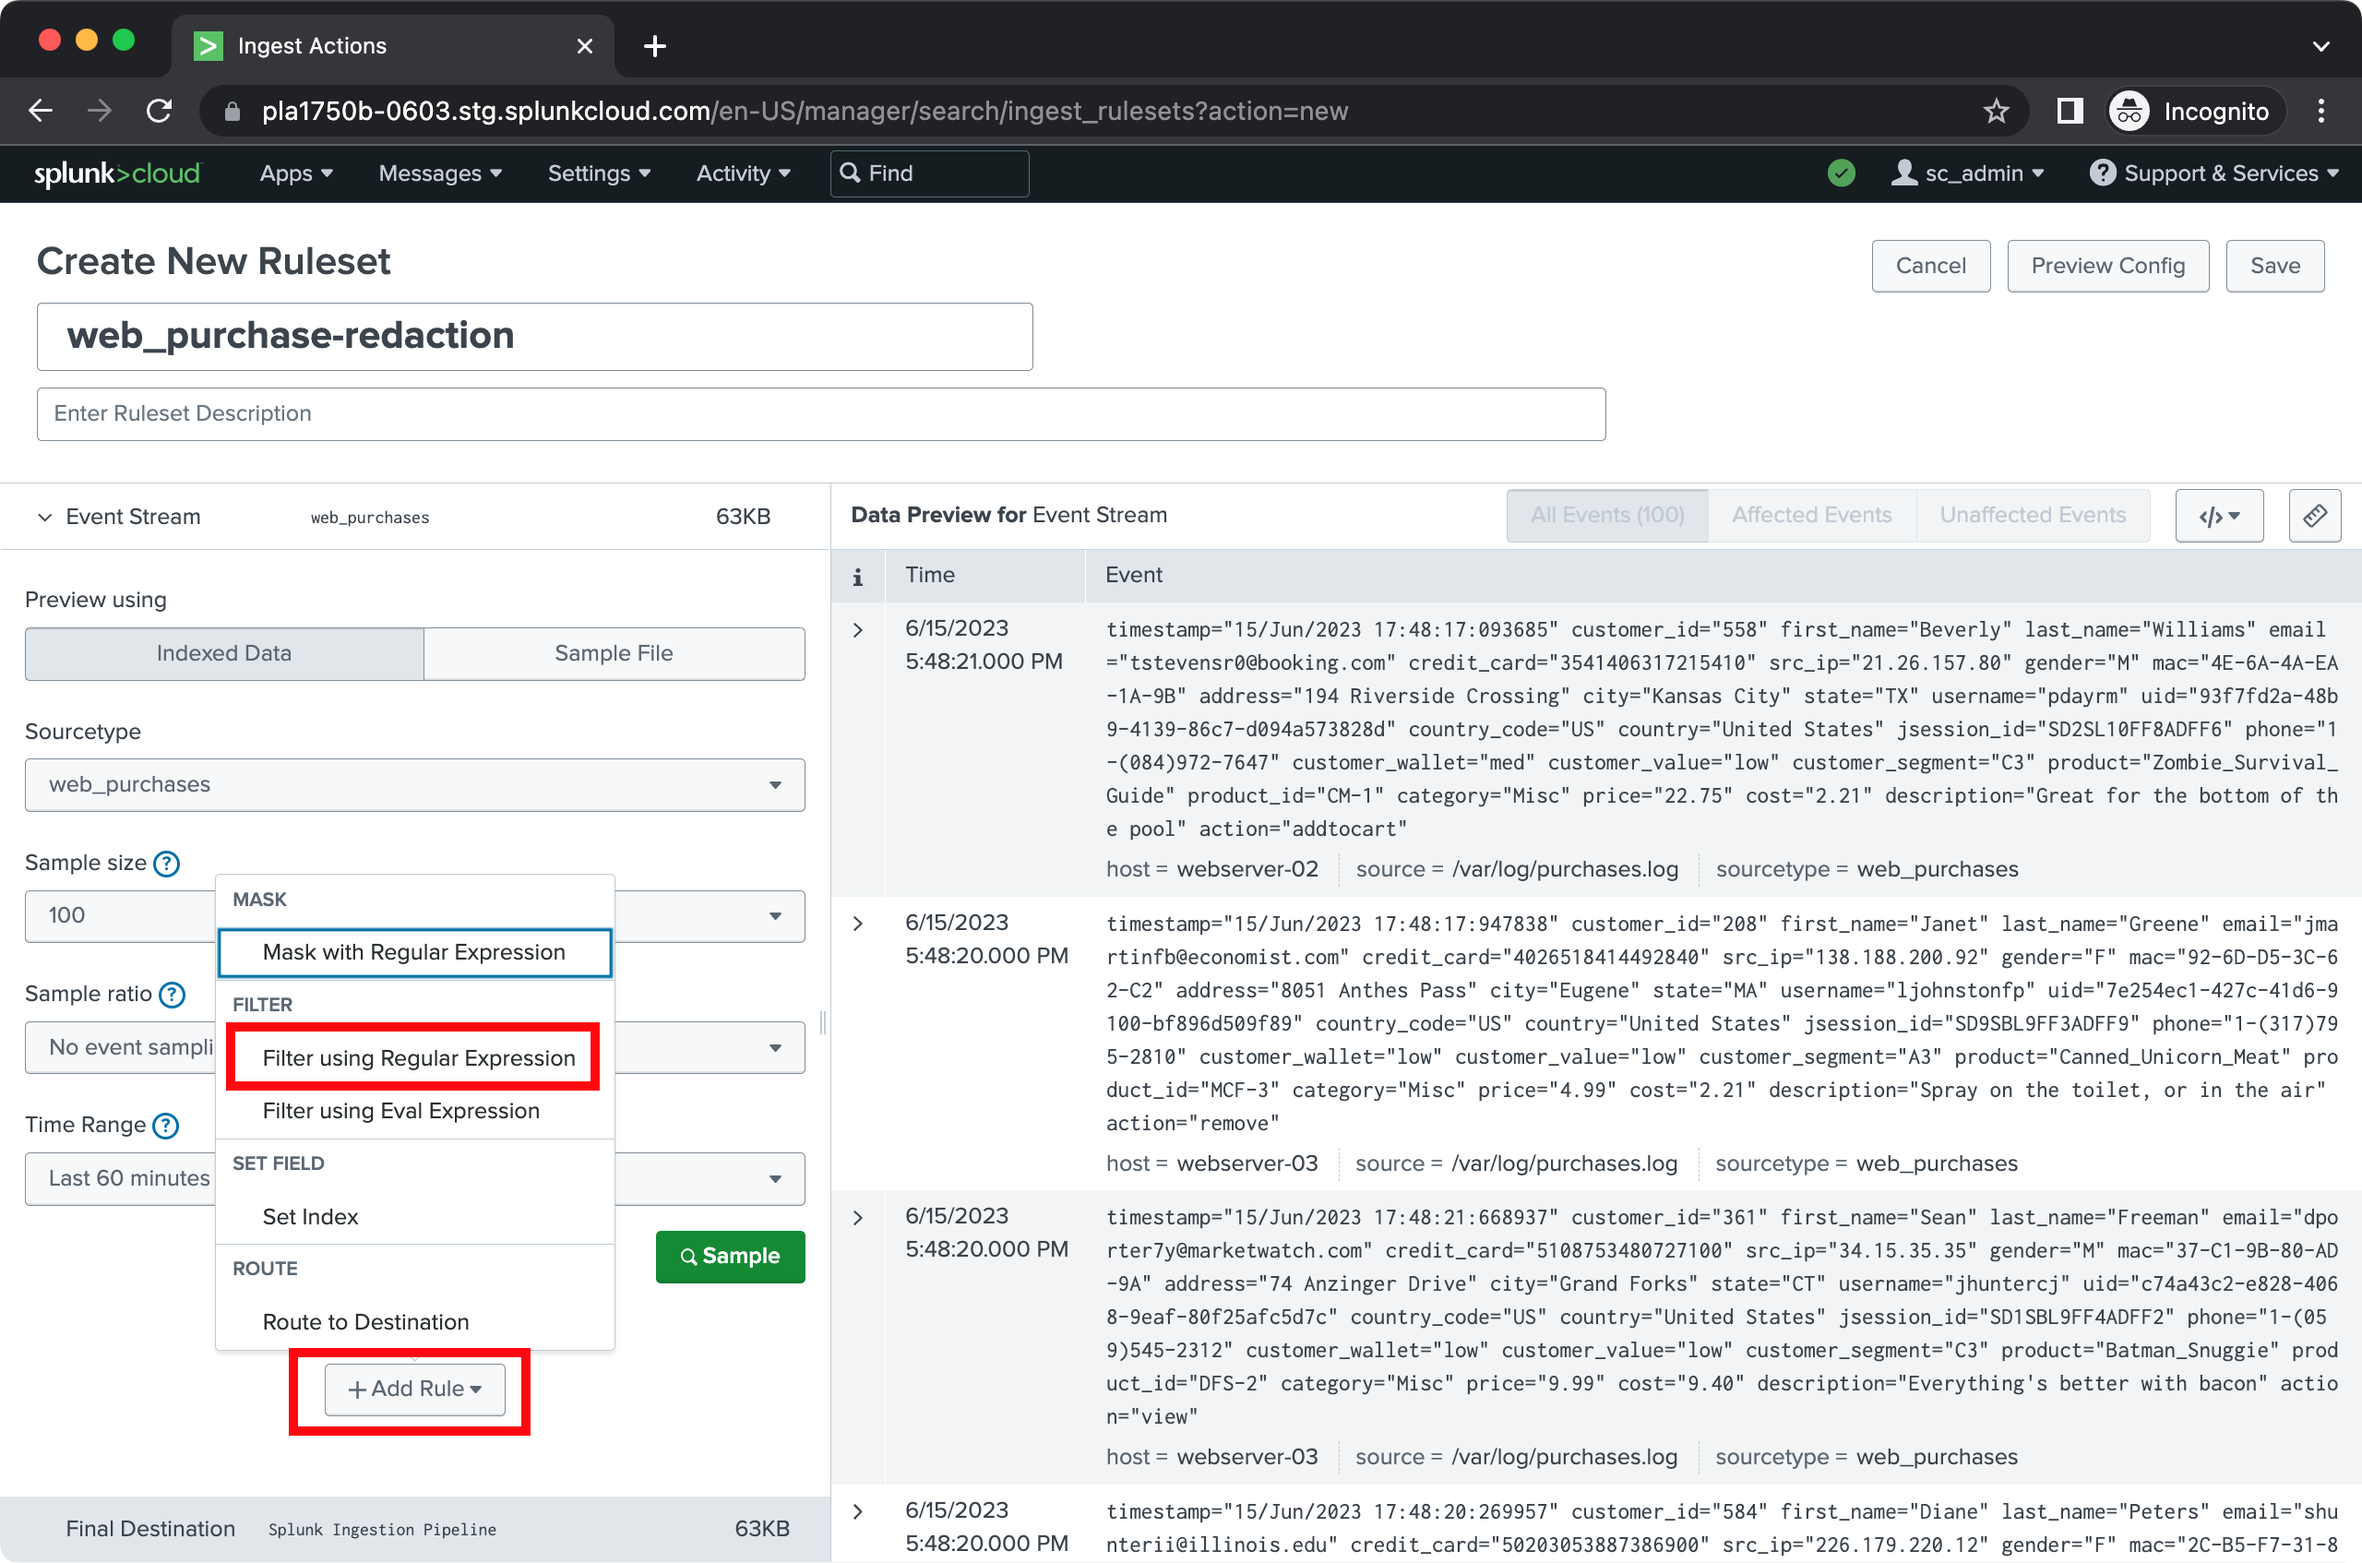
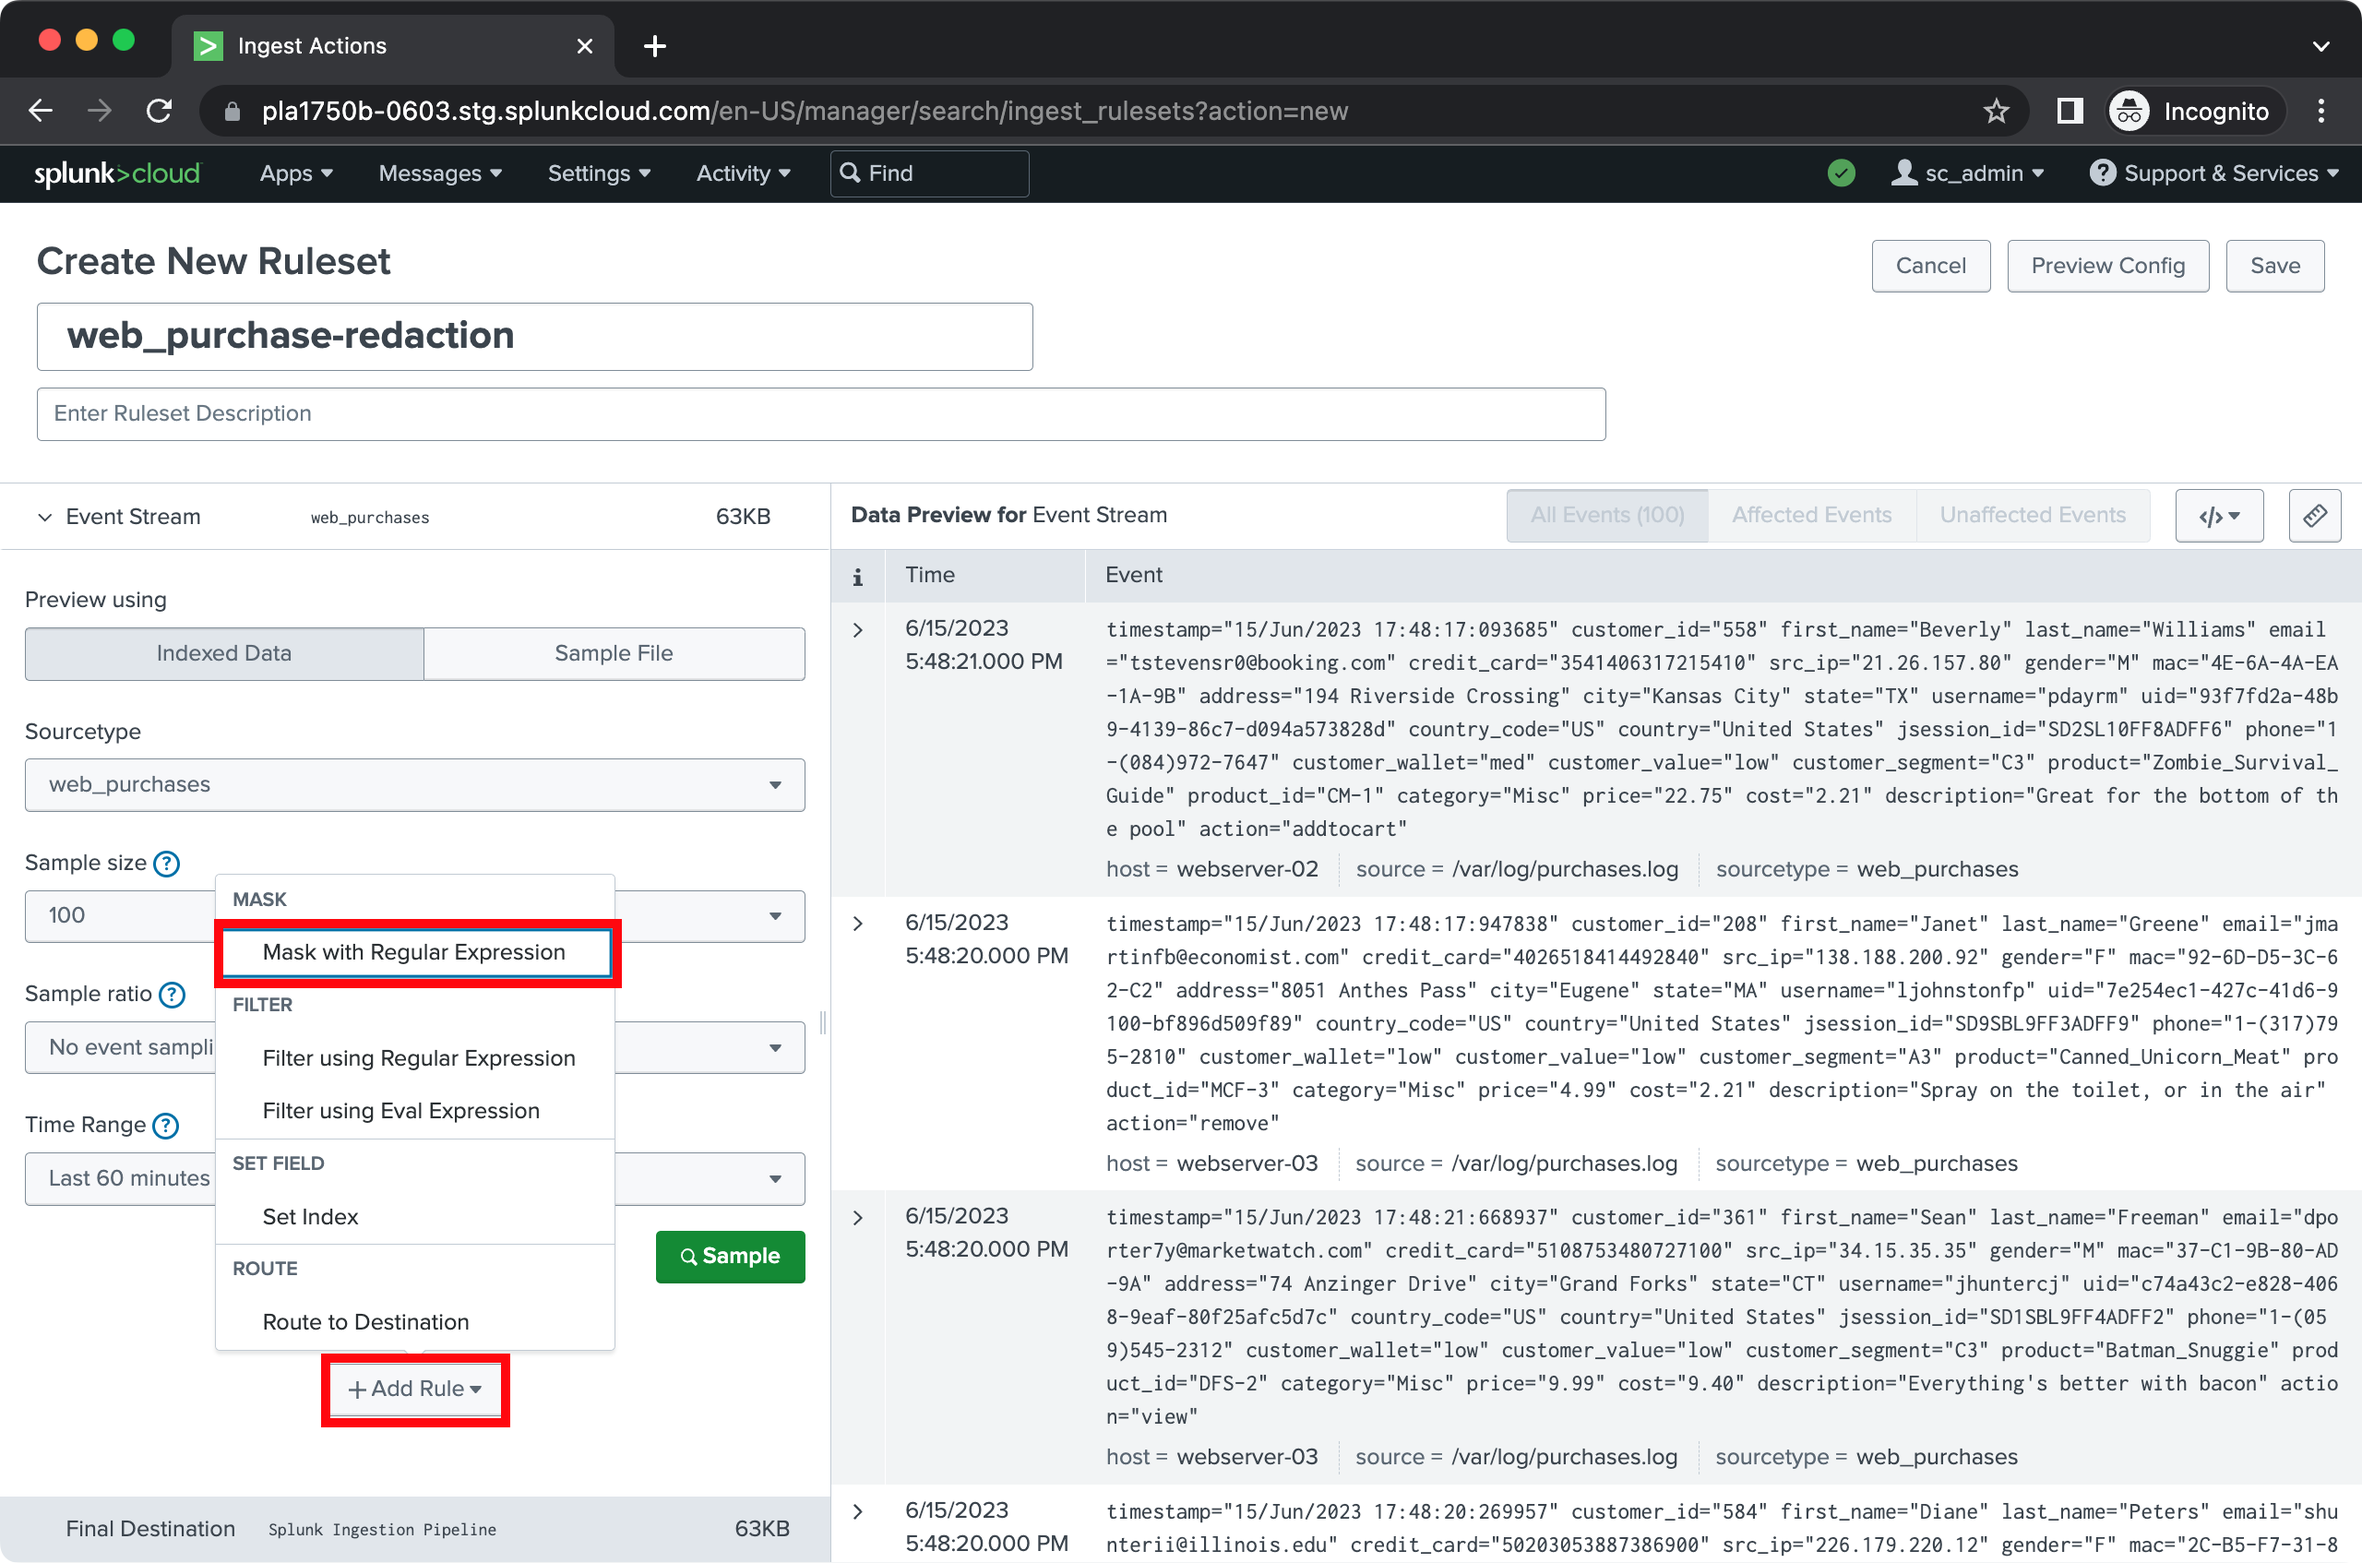
Incorporated feedback for module

Changed region(s): [[0.0938, 0.5832, 0.2812, 0.706], [0.125, 0.8595, 0.25, 0.9209]]

diff --git a/module_1/Module 1 Ingest Actions.md b/module_1/Module 1 Ingest Actions.md
@@ -46,15 +46,15 @@ index=firewall sourcetype=cisco:asa 106023 OR 302020 OR 302021 OR 313005 OR 1060
 
 7. Configure this rule by leaving the **Source Field** set to `_raw` so the regex applies to the `_raw` field, and setting the **Drop Events Matching Regular Expression** field to the regex `(106023|302020|302021|313005|106015|106006|106001|302022|302023|302024|302025|302026|302027|4001\d+)`, then clicking **Apply** to apply the rule to the sample data.
 
-You may need to scroll down the list of sample data in the Data Preview section, but you'll notice events matching the regex are highlighted in red which indicates these events will be dropped.
-
 ![Splunk Cloud ingest actions interface with applied via regex with regex , and Apply button highlighted in red](https://github.com/preeves-splunk/pla1750b/blob/main/module_1/1_7.png?raw=true)
+
+You may need to scroll down the list of sample data in the Data Preview section, but you'll notice events matching the regex are highlighted in red which indicates these events will be dropped.  You may want to use the **Affected Events** tab in the `Data Preview` pane to see modified events.
 
 Also, notice how additional information around how much data was reduced is provided, including the number of events that were modified.  In the screenshot below, you can see that 8% of the events were dropped because of that regex!  That number might be different in your Splunk Cloud environment.
 
 ![Splunk Cloud ingest actions interface with applied via regex with dropped events and percentage chagned highlighted in green](https://github.com/preeves-splunk/pla1750b/blob/main/module_1/1_8.png?raw=true)
 
-8. View the settings that will be applied to the `props.conf` and `transforms.conf` files by clicking the **Preview Config** button.  This is a good way to check to see how Splunk is going to apply this rule set.  No action is needed here, this step was just to show you how you can preview the configurations before they get deployed.  
+8. View the settings that will be applied to the `props.conf` and `transforms.conf` files by clicking the **Preview Config** button.  This is a good way to check to see how Splunk is going to apply this rule set.  The `RULESET` items in `props.conf` are new to ingest actions.  No action is needed here, this step was just to show you how you can preview the configurations before they get deployed.  
 9. Click the **Close** button.
 
 ![Splunk Cloud ingest actions interface showing preview of props.conf and transforms.conf with Preview Config, Save, and Close buttons highlighted in red and the props.conf and transforms.conf settings highlighted in green](https://github.com/preeves-splunk/pla1750b/blob/main/module_1/1_9.png?raw=true)
@@ -129,7 +129,7 @@ Notice how there are credit card numbers in the events.
 
 ![Splunk Cloud ingest actions pane with web_purchase sourcetype selected, with ruleset name, select sourcetype, use web_purchases and Sample button highlighted in red](https://github.com/preeves-splunk/pla1750b/blob/main/module_1/3_2.png?raw=true)
 
-5. Create a new rule by clicking the **+ Add Rule**, and selecting the **Filter using Regular Expressions** rule.
+5. Create a new rule by clicking the **+ Add Rule**, and selecting the **Mask with Regular Expression** rule.
 
 ![Splunk Cloud ingest actions pane selecting Filter using Regular Expressions rule with the + Add Rule button and Filter using Regular Expression option highlighted in red](https://github.com/preeves-splunk/pla1750b/blob/main/module_1/3_3.png?raw=true)
 
@@ -194,7 +194,7 @@ index=firewall sourcetype=cisco:asa 106023 OR 302020 OR 302021 OR 313005 OR 1060
 OR 302023 OR 302024 OR 302025 OR 302026 OR 302027 OR 4001*
 ```
 
-Notice that recent events exist for the first search, but not the second.  This indicates that ingest actions ruleset is correctly filtering out ICMP-related messages.
+Notice that recent events from the past few minutes (when the ingest actions rule started taking effect) exist for the first search, but not the second.  This indicates that ingest actions ruleset is correctly filtering out ICMP-related messages.
 
 ![Splunk Cloud search results of index=firewall sourcetype=cisco:asa with the search highlighted in red and search results highlighted in green](https://github.com/preeves-splunk/pla1750b/blob/main/module_1/5_1.png?raw=true)
 
@@ -206,7 +206,7 @@ Notice that recent events exist for the first search, but not the second.  This 
 index=firewall sourcetype=cisco:estreamer:data
 ```
 
-Notice how the recent events are smaller now, and any key/value pairs with `N/A`, `null`, or `0`s have been removed from the event.
+Notice how the recent events from the past few minutes are smaller now because the ingest actions rules are taking effect, and any key/value pairs with `N/A`, `null`, or `0`s have been removed from the event.
 
 ![Splunk Cloud search results of index=firewall sourcetype=cisco:estreamer:data with the search highlighted in red and search results highlighted in green](https://github.com/preeves-splunk/pla1750b/blob/main/module_1/5_3.png?raw=true)
 
@@ -216,7 +216,7 @@ Notice how the recent events are smaller now, and any key/value pairs with `N/A`
 index=purchases sourcetype=web_purchases
 ```
 
-Notice that the `credit_card` values are now redacted, and that only the last 4 digits of the credit card number are in the events.
+Notice that the `credit_card` values are now redacted from events in the past few minutes  (when the ingest actions rules started taking effect), and that only the last 4 digits of the credit card number are in the events.
 
 ![Splunk Cloud search results of index=purchases sourcetype=web_purchases with the search highlighted in red redacted credit card numbers in the events highlighted in green](https://github.com/preeves-splunk/pla1750b/blob/main/module_1/5_3.png?raw=true)
 
